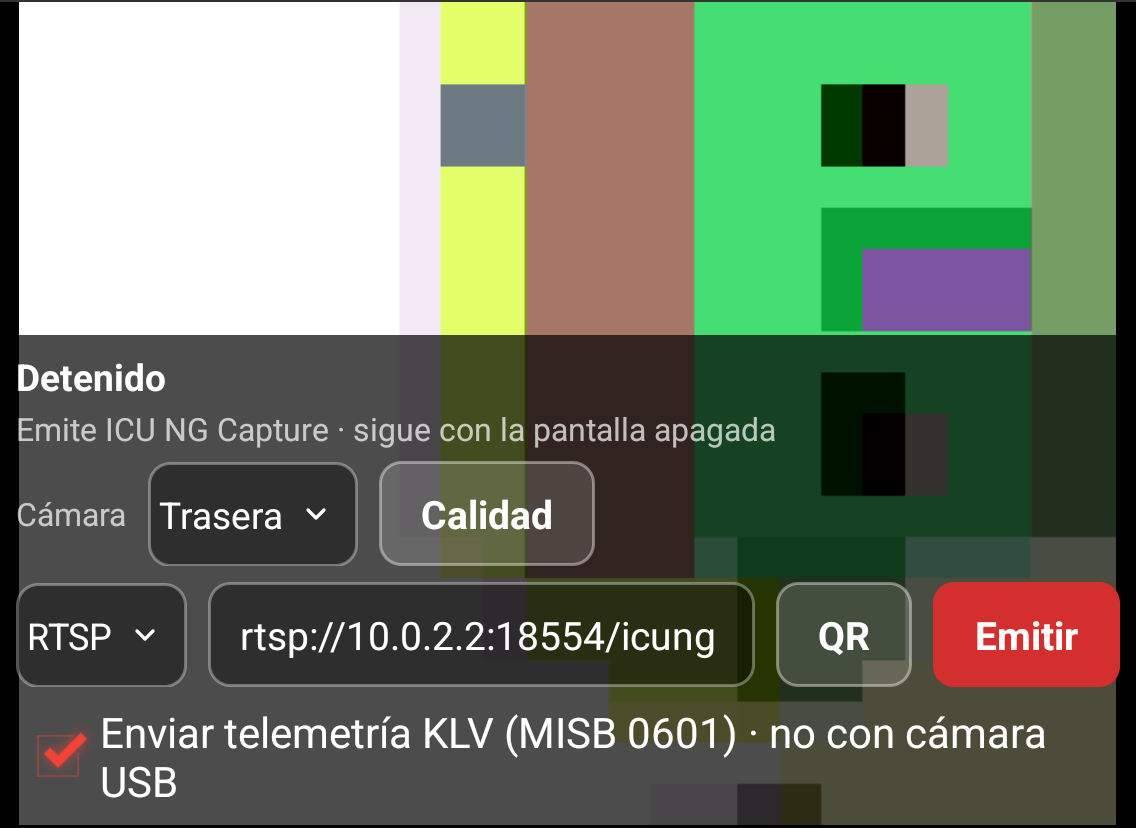
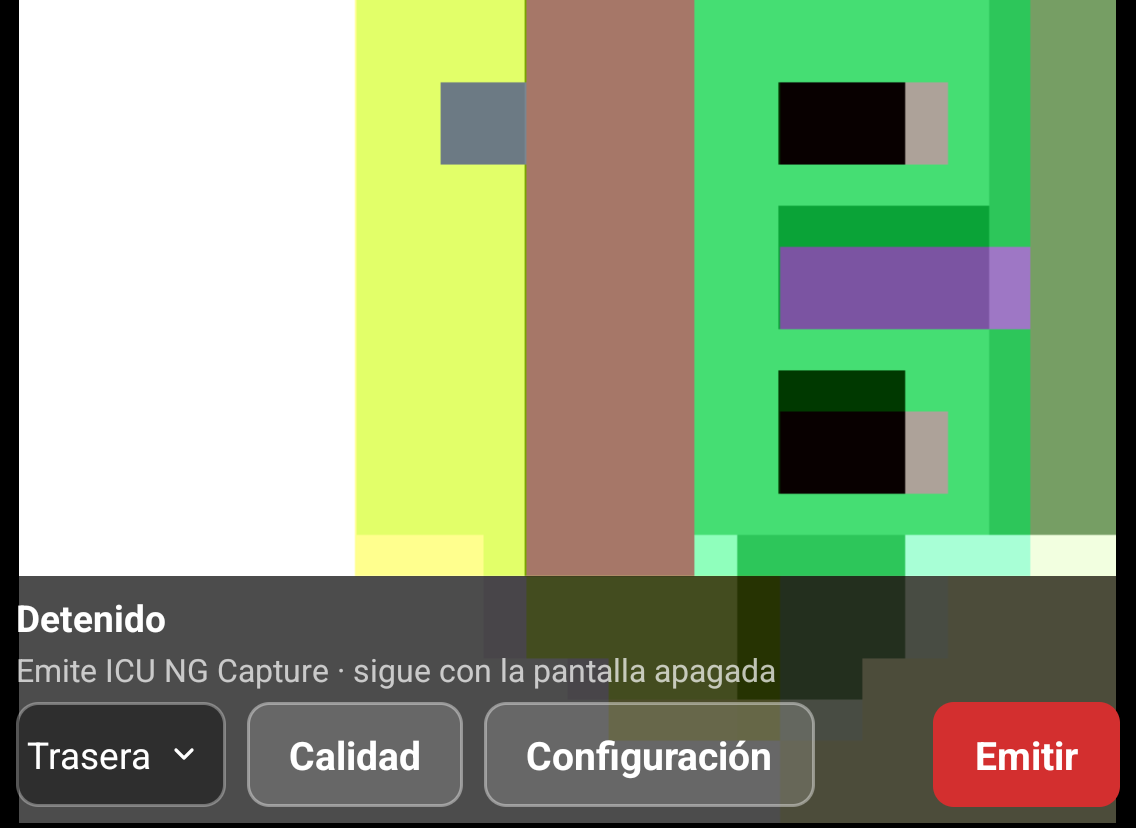
feat(1.2.2): connection and KLV behind a Settings button so the preview shows

diff --git a/app/src/main/java/com/carlosgt/atak/icung/plugin/IcuNgPlugin.java b/app/src/main/java/com/carlosgt/atak/icung/plugin/IcuNgPlugin.java
@@ -80,6 +80,7 @@ public class IcuNgPlugin implements IPlugin, StreamController.Listener {
     Spinner srtEncryptionSpinner;
     View mainPage;
     View qualityPage;
+    View settingsPage;
     Button qualityBackButton;
     Spinner codecSpinner;
     Spinner resolutionSpinner;
@@ -342,6 +343,13 @@ public class IcuNgPlugin implements IPlugin, StreamController.Listener {
         serverFeedCheckbox.setEnabled(enabled);
     }
 
+    private void showPage(View page) {
+        if (mainPage == null) return;
+        mainPage.setVisibility(page == mainPage ? View.VISIBLE : View.GONE);
+        qualityPage.setVisibility(page == qualityPage ? View.VISIBLE : View.GONE);
+        settingsPage.setVisibility(page == settingsPage ? View.VISIBLE : View.GONE);
+    }
+
     // Recording is done by ICU NG Capture only (see StreamController): without
     // it the box is off and says why, whatever the setting holds.
     private void updateRecordRow(boolean enabled) {
@@ -546,6 +554,7 @@ public class IcuNgPlugin implements IPlugin, StreamController.Listener {
         streamToggleButton = null;
         mainPage = null;
         qualityPage = null;
+        settingsPage = null;
         qualityBackButton = null;
         codecSpinner = null;
     }
@@ -576,14 +585,14 @@ public class IcuNgPlugin implements IPlugin, StreamController.Listener {
             qualityPage = paneView.findViewById(R.id.quality_page);
             qualityBackButton = paneView.findViewById(R.id.quality_back_button);
 
-            paneView.findViewById(R.id.quality_button).setOnClickListener(v -> {
-                mainPage.setVisibility(View.GONE);
-                qualityPage.setVisibility(View.VISIBLE);
-            });
-            qualityBackButton.setOnClickListener(v -> {
-                qualityPage.setVisibility(View.GONE);
-                mainPage.setVisibility(View.VISIBLE);
-            });
+            settingsPage = paneView.findViewById(R.id.settings_page);
+
+            // Connection and KLV live on their own page so the main page
+            // stays one row and the preview shows.
+            paneView.findViewById(R.id.quality_button).setOnClickListener(v -> showPage(qualityPage));
+            paneView.findViewById(R.id.settings_button).setOnClickListener(v -> showPage(settingsPage));
+            qualityBackButton.setOnClickListener(v -> showPage(mainPage));
+            paneView.findViewById(R.id.settings_back_button).setOnClickListener(v -> showPage(mainPage));
 
             codecSpinner = paneView.findViewById(R.id.codec_spinner);
             resolutionSpinner = paneView.findViewById(R.id.resolution_spinner);
